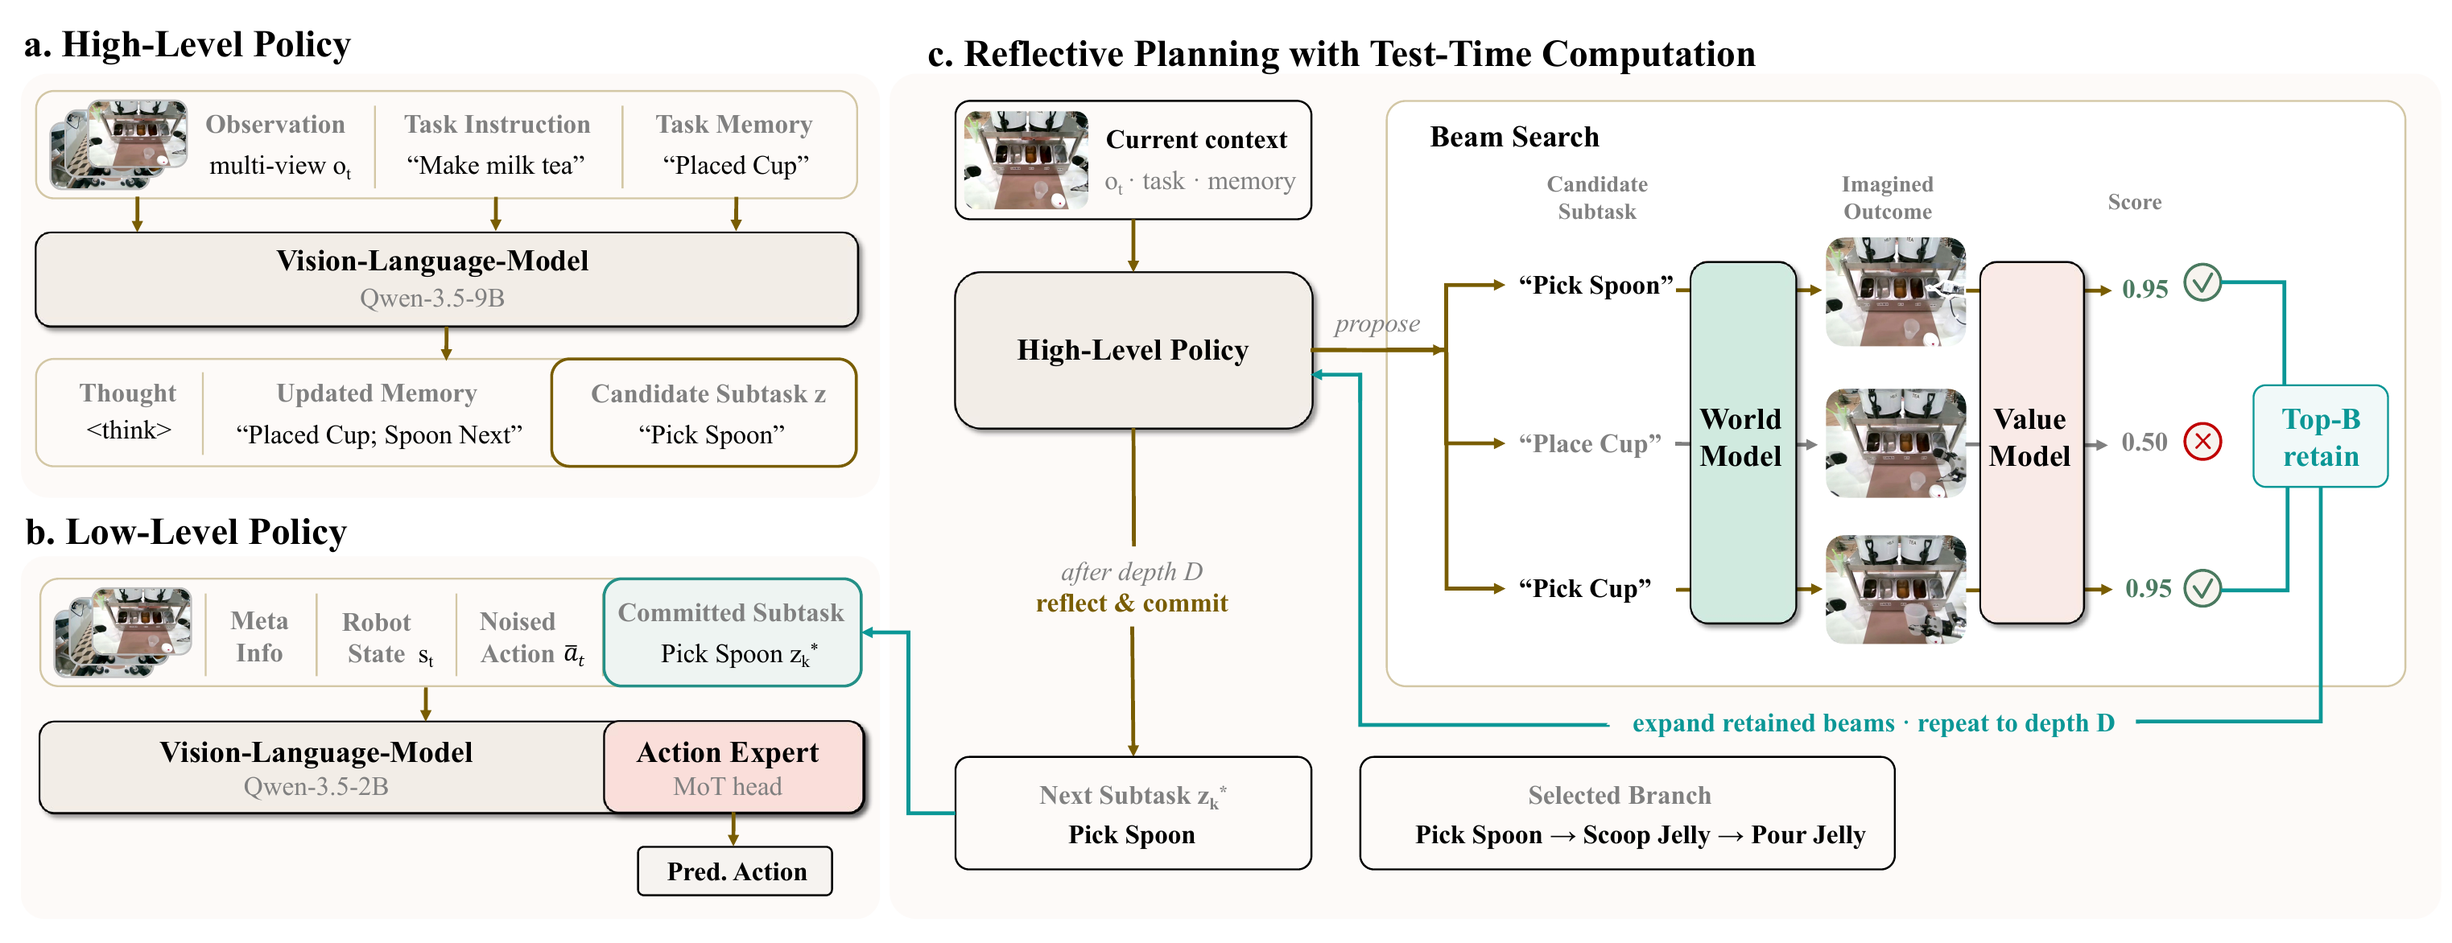
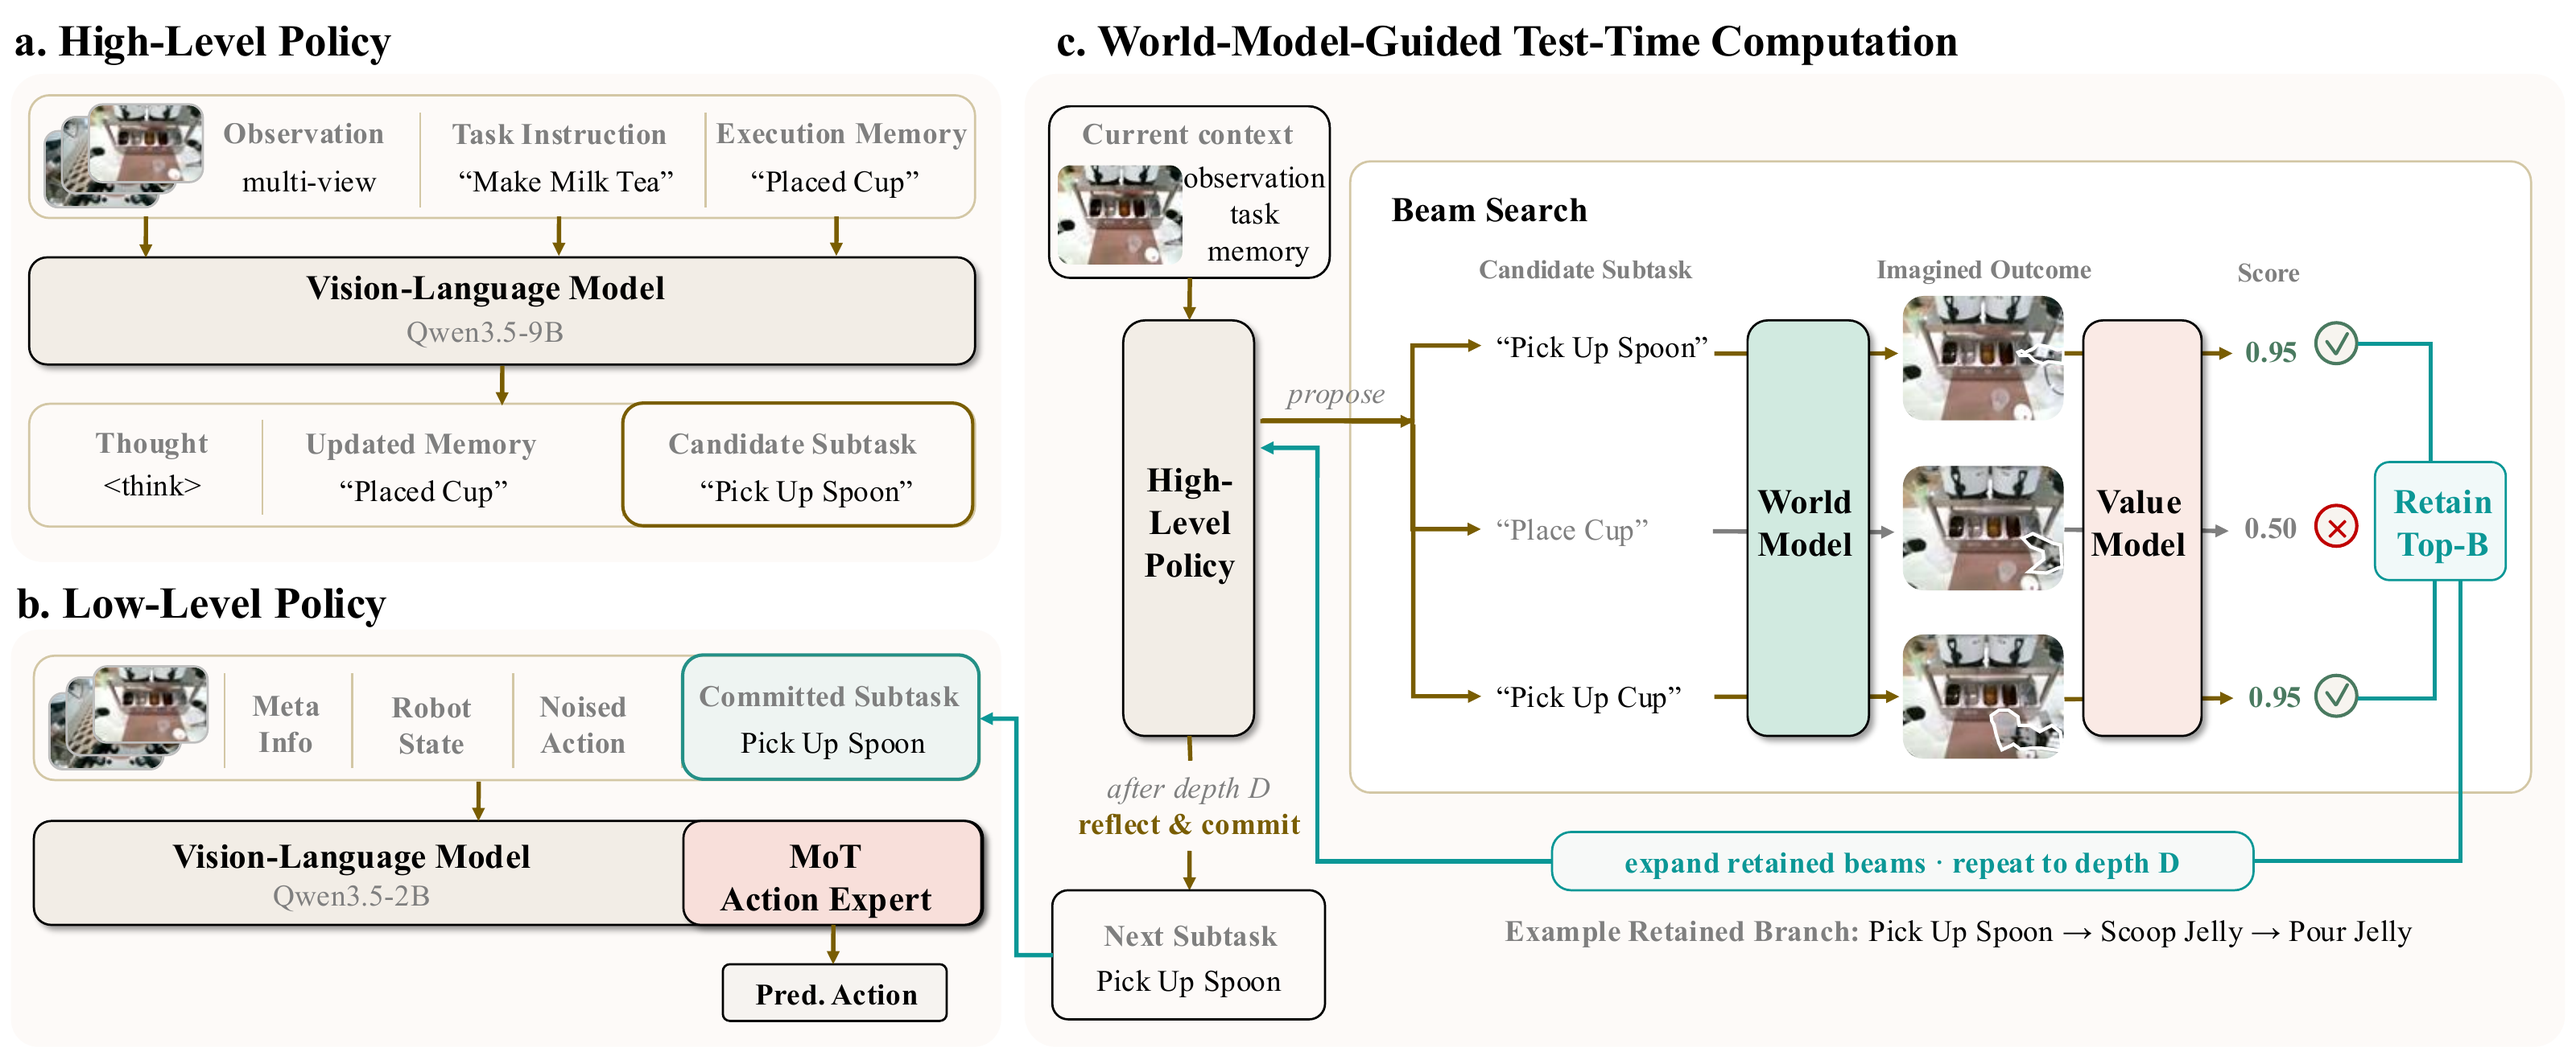
Update framework figure

diff --git a/app/page.tsx b/app/page.tsx
@@ -278,8 +278,8 @@ export default function Home() {
           <Image
             src="/media/framework-latest.png"
             alt="τ0-VLA high-level decision making and low-level execution architecture"
-            width={3046}
-            height={1172}
+            width={3200}
+            height={1318}
             priority
           />
           <figcaption>
